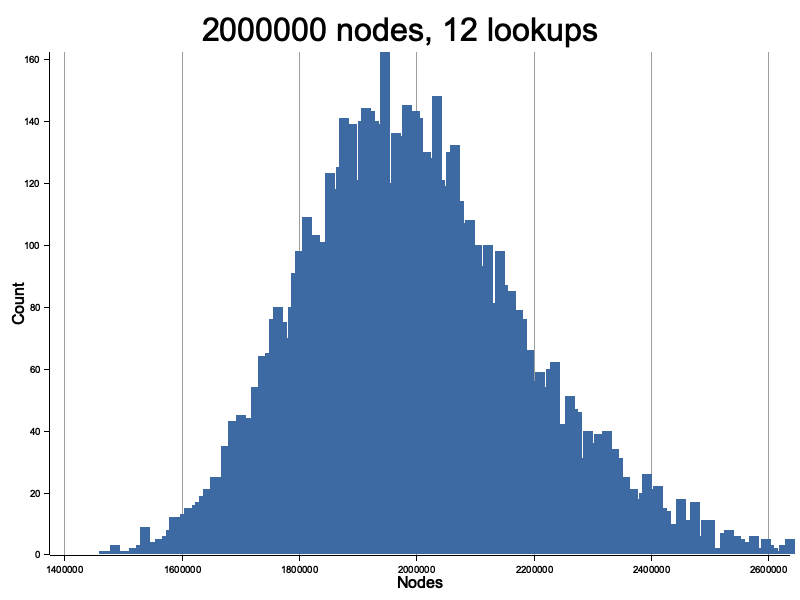
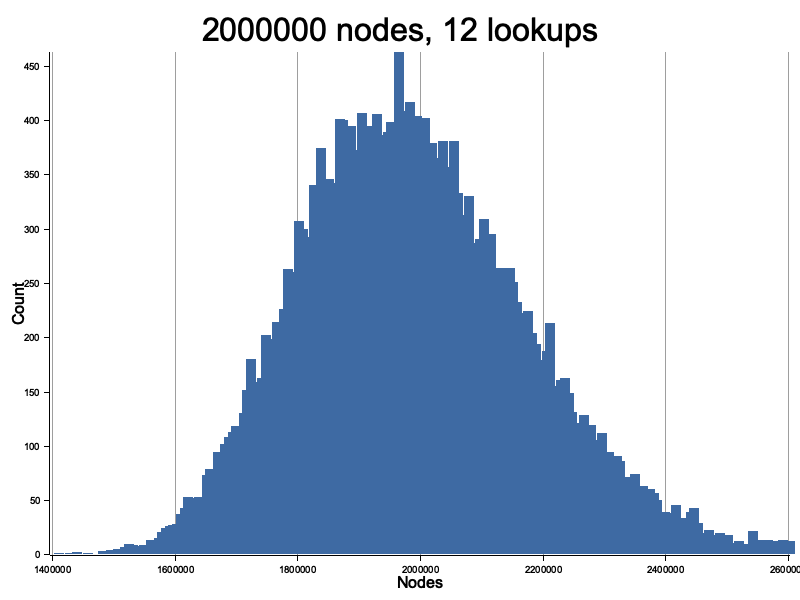
fix: replace the correction factor with skipping first node (too noisy?)

diff --git a/src/rpc/closest_nodes.rs b/src/rpc/closest_nodes.rs
@@ -2,8 +2,6 @@ use std::{convert::TryInto, vec::IntoIter};
 
 use crate::{common::MAX_BUCKET_SIZE_K, Id, Node};
 
-const CORRECTION_FACTOR: f64 = 1.0544;
-
 #[derive(Debug, Clone)]
 /// Manage closest nodes found in a query.
 ///
@@ -61,25 +59,31 @@ impl ClosestNodes {
             return 0;
         };
 
-        let sum = self.nodes.iter().take(20).enumerate().fold(
-            0,
-            |sum: usize, (i, node): (usize, &Node)| {
-                let xor = node.id.xor(&self.target);
+        let mut sum = 0;
+        let mut count = 0;
 
-                // Round up the lower 4 bytes to get a u128 from u160.
-                let distance =
-                    u128::from_be_bytes(xor.as_bytes()[0..16].try_into().expect("infallible"));
+        // Ignoring the first node, as that gives the best result in simulations.
+        for node in &self.nodes[1..] {
+            count += 1;
 
-                let intervals = (u128::MAX / distance) as usize;
-                let estimated_n = intervals.saturating_mul(i);
+            let xor = node.id.xor(&self.target);
 
-                sum + estimated_n as usize
-            },
-        );
+            // Round up the lower 4 bytes to get a u128 from u160.
+            let distance =
+                u128::from_be_bytes(xor.as_bytes()[0..16].try_into().expect("infallible"));
 
-        let count = MAX_BUCKET_SIZE_K.min(self.nodes.len());
+            let intervals = (u128::MAX / distance) as usize;
 
-        (CORRECTION_FACTOR * (sum / count) as f64) as usize
+            let estimated_n = intervals * count;
+
+            sum += estimated_n as usize;
+
+            if count >= MAX_BUCKET_SIZE_K {
+                break;
+            }
+        }
+
+        (sum / count) as usize
     }
 }
 
@@ -113,13 +117,13 @@ mod tests {
 
         let mut closest_nodes = ClosestNodes::new(target);
 
-        for _ in 0..10 {
+        for _ in 0..100 {
             let node = Node::random();
             closest_nodes.add(node.clone());
             closest_nodes.add(node);
         }
 
-        assert_eq!(closest_nodes.nodes().len(), 10);
+        assert_eq!(closest_nodes.nodes().len(), 100);
 
         let distances = closest_nodes
             .nodes()

diff --git a/docs/dht_size_estimate/README.md b/docs/dht_size_estimate/README.md
@@ -57,7 +57,7 @@ The final Dht size estimation is the average of `en_1 + en_2 + .. + en_n`
 
 Running this [simulation](./src/main.rs) for 20 million nodes and a after 12 lookups, we observe:
 
-- Mean estimate: 2,004,408 nodes 
+- Mean estimate: 1,998,382 nodes 
 - Standard deviation: 10%
 
 Meaning that after 12 lookups, you can be confident you are not overestimating the Dht size by more than 10%,
